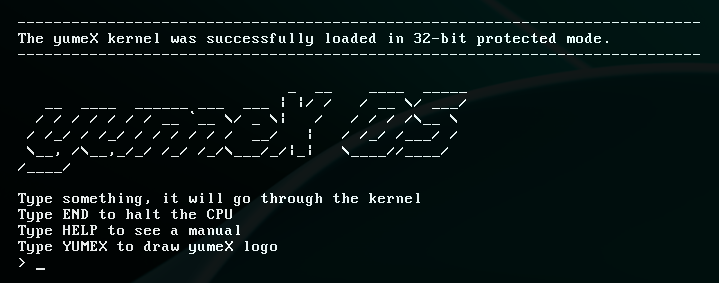
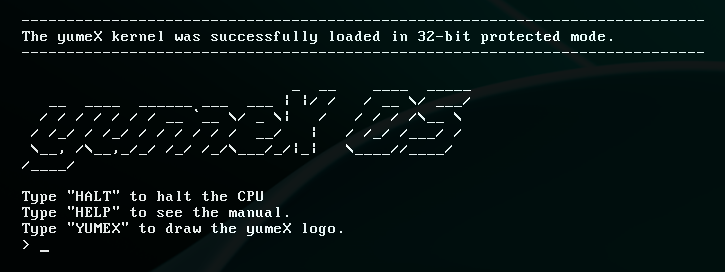
im

diff --git a/kernel/includes/logs.c b/kernel/includes/logs.c
@@ -1,7 +1,12 @@
 #include "../../drivers/screen.h"
 
-const char *strip = "----------------------------------------------------------------------------";
-const char *message = "The yumeX kernel was successfully loaded in 32-bit protected mode.";
+const char *STRIP = "----------------------------------------------------------------------------";
+const char *MESSAGE = "The yumeX kernel was successfully loaded in 32-bit protected mode.";
+
+const char *SHELL_HELP_MESSAGE = 
+        "Type \"HALT\" to halt the CPU\n"
+        "Type \"HELP\" to see the manual.\n"
+        "Type \"YUMEX\" to draw the yumeX logo.\n> ";
 
 void draw_yumeX_logo() {
     kprint("                              _  __    ____  _____\n");
@@ -13,13 +18,16 @@ void draw_yumeX_logo() {
     kprint("\n");
 }
 
-
 void ker_init_log() {
     clear_screen();
-    kprint((char*)strip);
+    kprint((char*)STRIP);
     kprint("\n");
-    kprint((char*)message);
+    kprint((char*)MESSAGE);
     kprint("\n");
-    kprint((char*)strip);
+    kprint((char*)STRIP);
     kprint("\n\n");
+}
+
+void ker_init_help() {
+    kprint(SHELL_HELP_MESSAGE);
 }

diff --git a/kernel/kernel.c b/kernel/kernel.c
@@ -8,28 +8,29 @@
 #include "./tests/basic_tests.h"
 
 void kermain() {
-    ker_init_log();
-    draw_yumeX_logo();
-
+    /** init interrupts */
     isr_install();
     irq_install();
-
-    kprint(SHELL_HELP_MESSAGE);
+    
+    /** kernel init messages */
+    ker_init_log();
+    draw_yumeX_logo();
+    ker_init_help();
 }
 
 void user_input(char *input) {
-    if (strcmp(input, "END") == 0) {
+    if (strcmp(input, "HALT") == 0) {
         kprint("Stopping the CPU. Bye!\n");
         __asm__ __volatile__("hlt");
     } else if (strcmp(input, "YUMEX") == 0) {
         draw_yumeX_logo();
         kprint("\n> ");
     } else if (strcmp(input, "HELP") == 0) {
-        kprint(SHELL_HELP_MESSAGE);
+        ker_init_help();
     } else if (strcmp(input, "") == 0) {
         kprint(">");
     } else {
-        kprint("You said: ");
+        kprint("Echo: ");
         kprint(input);
         kprint("\n> ");
     }

diff --git a/kernel/includes/logs.h b/kernel/includes/logs.h
@@ -1,11 +1,6 @@
 #ifndef LOGS_H
 #define LOGS_H
 
-const char *SHELL_HELP_MESSAGE = "Type something, it will go through the kernel\n"
-        "Type END to halt the CPU\n"
-        "Type HELP to see a manual\n"
-        "Type YUMEX to draw yumeX logo\n> ";
-
 void ker_init_log();
 void draw_yumeX_logo();
 
